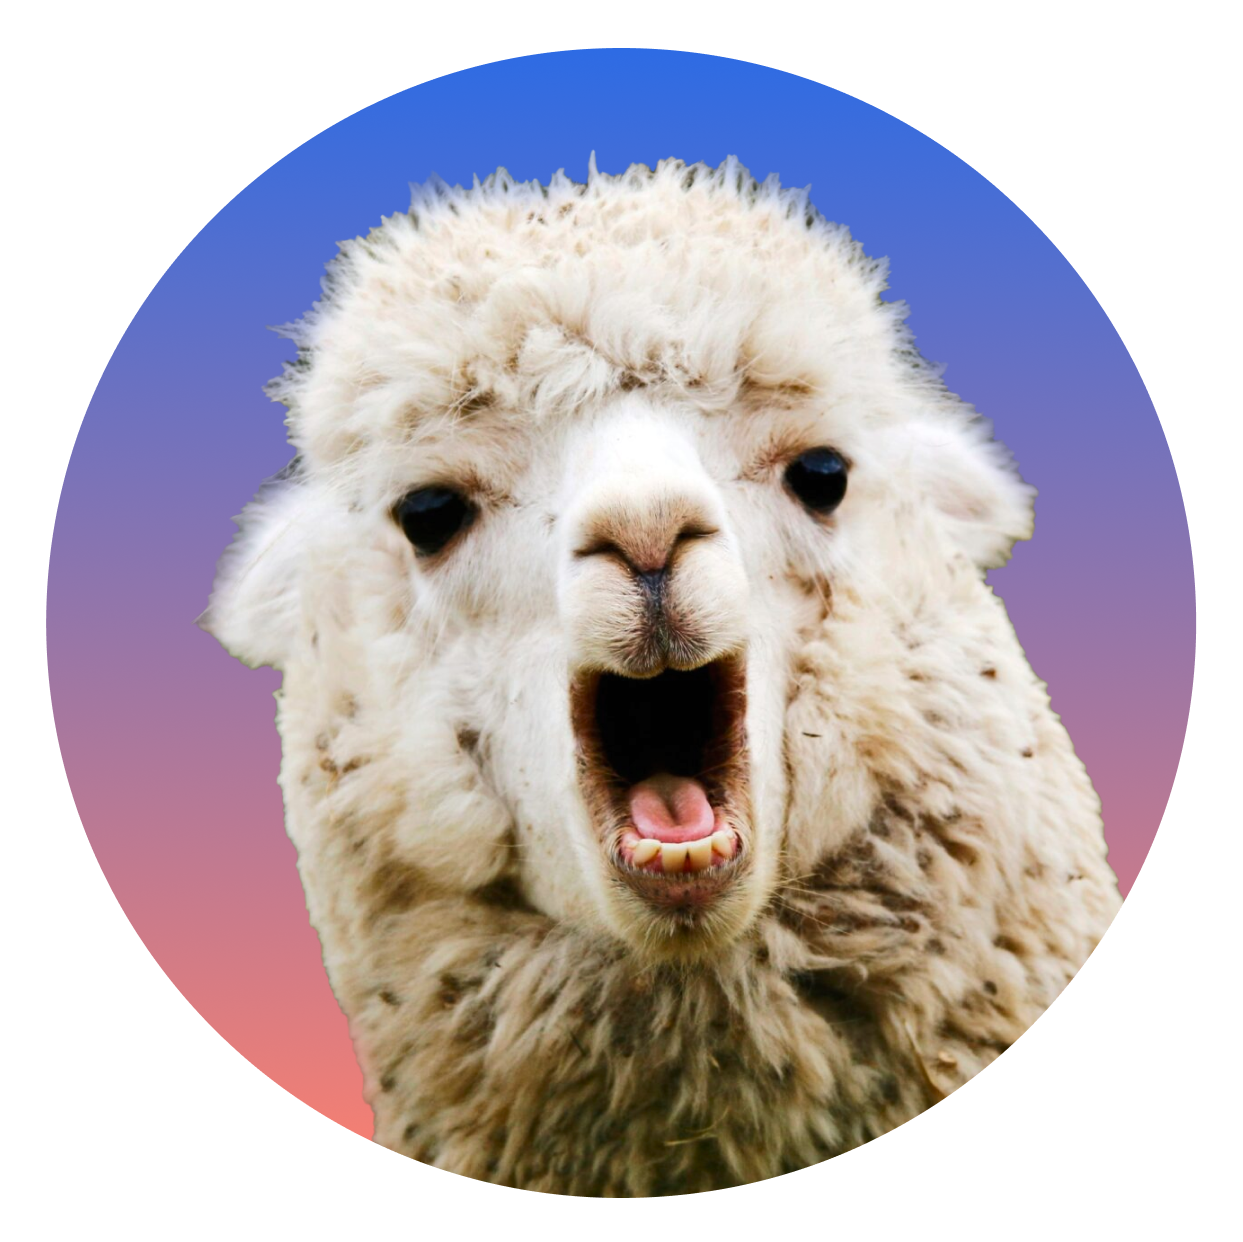
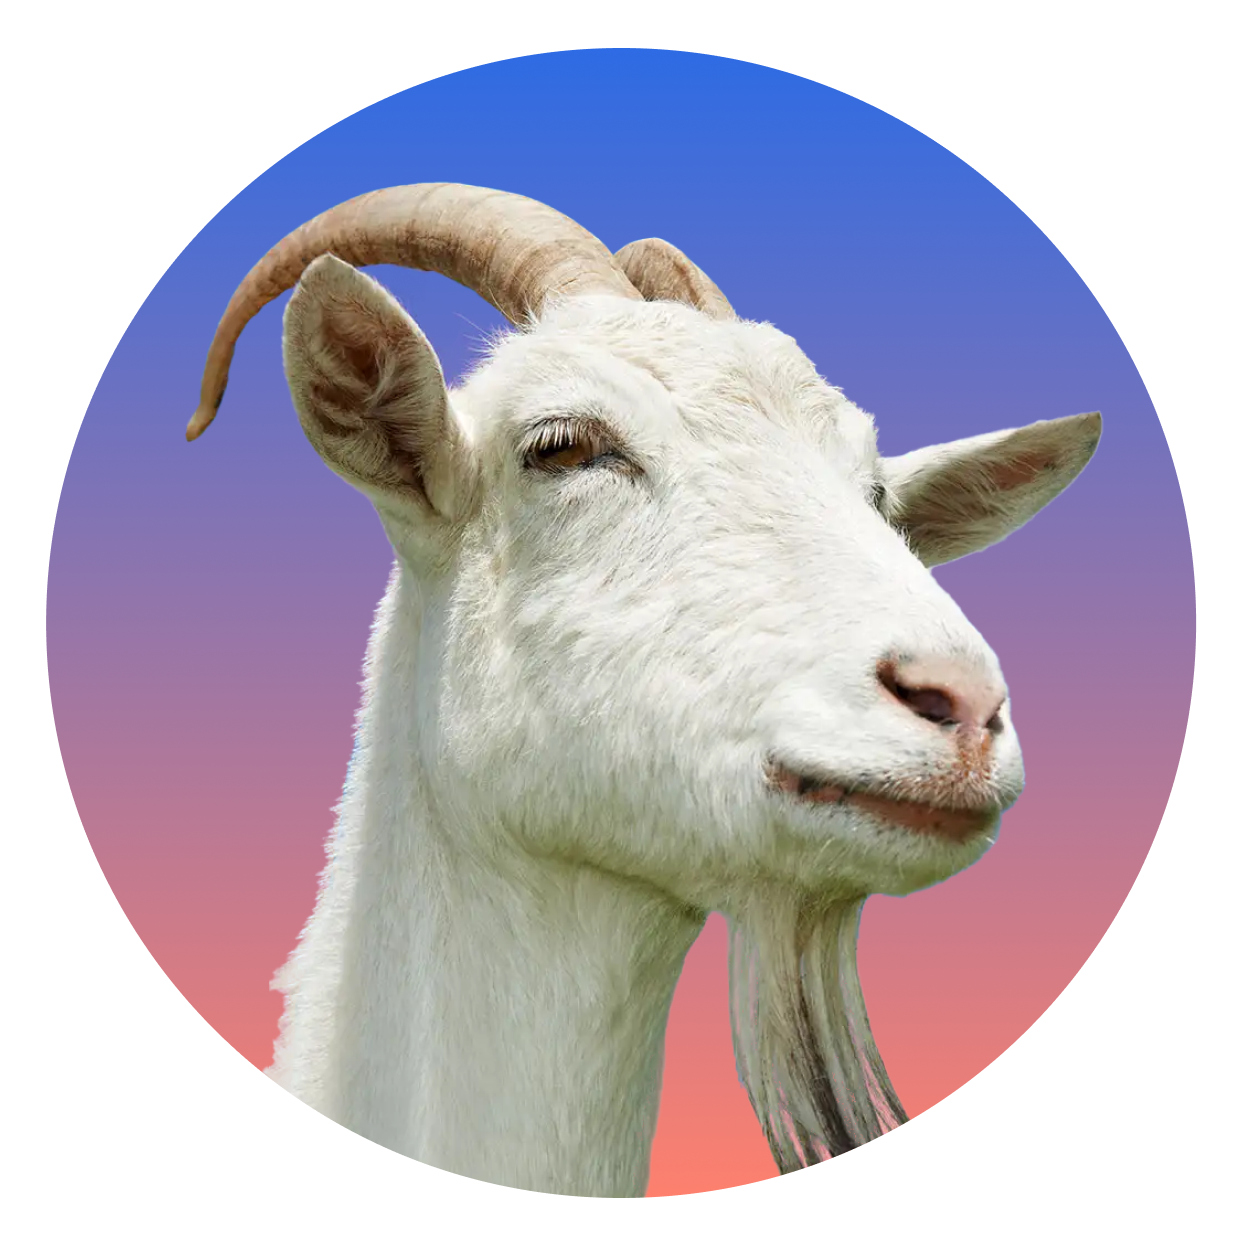
update

diff --git a/src/layouts/MainLayout.vue b/src/layouts/MainLayout.vue
@@ -15,7 +15,7 @@
           <!-- user avatar -->
           <div class="row q-pa-md justify-center" @click="profielBtn()">
             <div>
-              <img src="../../public/image/avatar01.png" width="100px" />
+              <img :src="profilePicFile" width="100px" />
             </div>
             <div class="fontUserName">{{ username }}</div>
           </div>
@@ -207,12 +207,14 @@
             <div class="row">
               <div class="col-1"></div>
               <div class="col row justify-center">
-                <img
-                  class=""
-                  src="../../public/image/avatar/9.png"
-                  alt="ยีราฟ"
-                  width="60px"
-                />
+                <div>
+                  <img
+                    class=""
+                    :src="profilePicFile"
+                    alt="ยีราฟ"
+                    width="60px"
+                  />
+                </div>
                 <div class="font22 q-pt-md q-pl-md">{{ username }}</div>
               </div>
               <div class="col-1"></div>
@@ -229,80 +231,152 @@
                   <div class="font22 q-pl-md">รูปโปรไฟล์</div>
                   <div class="avatarSpace"></div>
                   <div class="row q-pl-md">
-                    <img
-                      class=""
-                      src="../../public/image/avatar/9.png"
-                      alt="ยีราฟ"
-                      width="80px "
-                      height="80 px"
-                    />
-                    <div class="q-pl-md">
+                    <div v-if="profilePicId == '1'">
                       <img
-                        class=""
+                        src="../../public/image/avatar/1x.png"
+                        alt="ยีราฟ"
+                        width="80px "
+                      />
+                    </div>
+                    <div v-else>
+                      <img
                         src="../../public/image/avatar/1.png"
+                        alt="ยีราฟ"
+                        width="80px "
+                        height="80px"
+                      />
+                    </div>
+                    <div class="q-pl-md">
+                      <div v-if="profilePicId == '2'">
+                        <img
+                          src="../../public/image/avatar/2x.png"
+                          alt="กระรอก"
+                          width="80px"
+                        />
+                      </div>
+                      <div v-else>
+                        <img
+                          src="../../public/image/avatar/2.png"
+                          alt="กระรอก"
+                          width="80px"
+                        />
+                      </div>
+                    </div>
+                    <div class="q-pl-md">
+                      <div v-if="profilePicId == '3'">
+                        <img
+                          src="../../public/image/avatar/3x.png"
+                          alt="แพะ"
+                          width="80px"
+                        />
+                      </div>
+                      <div v-else>
+                        <img
+                          src="../../public/image/avatar/3.png"
+                          alt="กระรอก"
+                          width="80px"
+                        />
+                      </div>
+                    </div>
+                  </div>
+                  <div class="avatarSpace"></div>
+                  <div class="row q-pl-md">
+                    <div v-if="profilePicId == '4'">
+                      <img
+                        src="../../public/image/avatar/4x.png"
+                        alt="แกะ"
+                        width="80px"
+                        height="80px"
+                      />
+                    </div>
+                    <div v-else>
+                      <img
+                        src="../../public/image/avatar/4.png"
                         alt="กระรอก"
                         width="80px"
                       />
                     </div>
                     <div class="q-pl-md">
-                      <img
-                        class=""
-                        src="../../public/image/avatar/5.png"
-                        alt="แพะ"
-                        width="80px"
-                      />
+                      <div v-if="profilePicId == '5'">
+                        <img
+                          src="../../public/image/avatar/5x.png"
+                          alt="ม้าลาย"
+                          width="80px"
+                        />
+                      </div>
+                      <div v-else>
+                        <img
+                          src="../../public/image/avatar/5.png"
+                          alt="กระรอก"
+                          width="80px"
+                        />
+                      </div>
+                    </div>
+                    <div class="q-pl-md">
+                      <div v-if="profilePicId == '6'">
+                        <img
+                          src="../../public/image/avatar/6x.png"
+                          alt="อัลปาก้า"
+                          width="80px"
+                        />
+                      </div>
+                      <div v-else>
+                        <img
+                          src="../../public/image/avatar/6.png"
+                          alt="กระรอก"
+                          width="80px"
+                        />
+                      </div>
                     </div>
                   </div>
                   <div class="avatarSpace"></div>
                   <div class="row q-pl-md">
-                    <img
-                      class=""
-                      src="../../public/image/avatar/2.png"
-                      alt="แกะ"
-                      width="80px"
-                      height="80px"
-                    />
-                    <div class="q-pl-md">
+                    <div v-if="profilePicId == '7'">
                       <img
-                        class=""
-                        src="../../public/image/avatar/4.png"
-                        alt="ม้าลาย"
+                        src="../../public/image/avatar/7x.png"
+                        alt="กิ้งก่า"
                         width="80px"
+                        height="80px"
                       />
                     </div>
-                    <div class="q-pl-md">
+                    <div v-else>
                       <img
-                        class=""
-                        src="../../public/image/avatar/3.png"
-                        alt="อัลปาก้า"
-                        width="80px"
-                      />
-                    </div>
-                  </div>
-                  <div class="avatarSpace"></div>
-                  <div class="row q-pl-md">
-                    <img
-                      class=""
-                      src="../../public/image/avatar/8.png"
-                      alt="กิ้งก่า"
-                      width="80px"
-                      height="80px"
-                    />
-                    <div class="q-pl-md">
-                      <img
-                        class=""
                         src="../../public/image/avatar/7.png"
-                        alt="ไก่"
+                        alt="กระรอก"
                         width="80px"
                       />
                     </div>
                     <div class="q-pl-md">
-                      <img
-                        class=""
-                        src="../../public/image/avatar/6.png"
-                        alt="ฮิปโป"
-                        width="80px"
-                      />
+                      <div v-if="profilePicId == '8'">
+                        <img
+                          src="../../public/image/avatar/8x.png"
+                          alt="ไก่"
+                          width="80px"
+                        />
+                      </div>
+                      <div v-else>
+                        <img
+                          src="../../public/image/avatar/8.png"
+                          alt="กระรอก"
+                          width="80px"
+                        />
+                      </div>
+                    </div>
+                    <div class="q-pl-md">
+                      <div v-if="profilePicId == '9'">
+                        <img
+                          src="../../public/image/avatar/9x.png"
+                          alt="ฮิปโป"
+                          width="80px"
+                        />
+                      </div>
+                      <div v-else>
+                        <img
+                          src="../../public/image/avatar/9.png"
+                          alt="กระรอก"
+                          width="80px"
+                        />
+                      </div>
                     </div>
                   </div>
                 </div>
@@ -415,6 +489,7 @@ export default {
   name: "MainLayout",
   data() {
     return {
+      showpicture: true,
       isPwd: true,
       leftDrawerOpen: false,
       menuData: { book: 0, category: 0, rank: 0, ads: 0, admin: 0 },
@@ -437,6 +512,7 @@ export default {
       let dataSend = {
         key: key,
       };
+
       let url = this.serverpath + "getprofilepic.php";
       let res = await axios.post(url, JSON.stringify(dataSend));
       if (res.data == "go to login") {
@@ -446,7 +522,9 @@ export default {
       }
       this.username = res.data[0].username;
       this.profilePicId = res.data[0].profilepic;
-      this.profilePicFile = "../../public/image/avatar01.png";
+      console.log(res.data);
+      this.profilePicFile =
+        this.serverpath + "avatar/" + this.profilePicId + ".png";
     },
     profielBtn() {
       this.showBgDrop = true;
